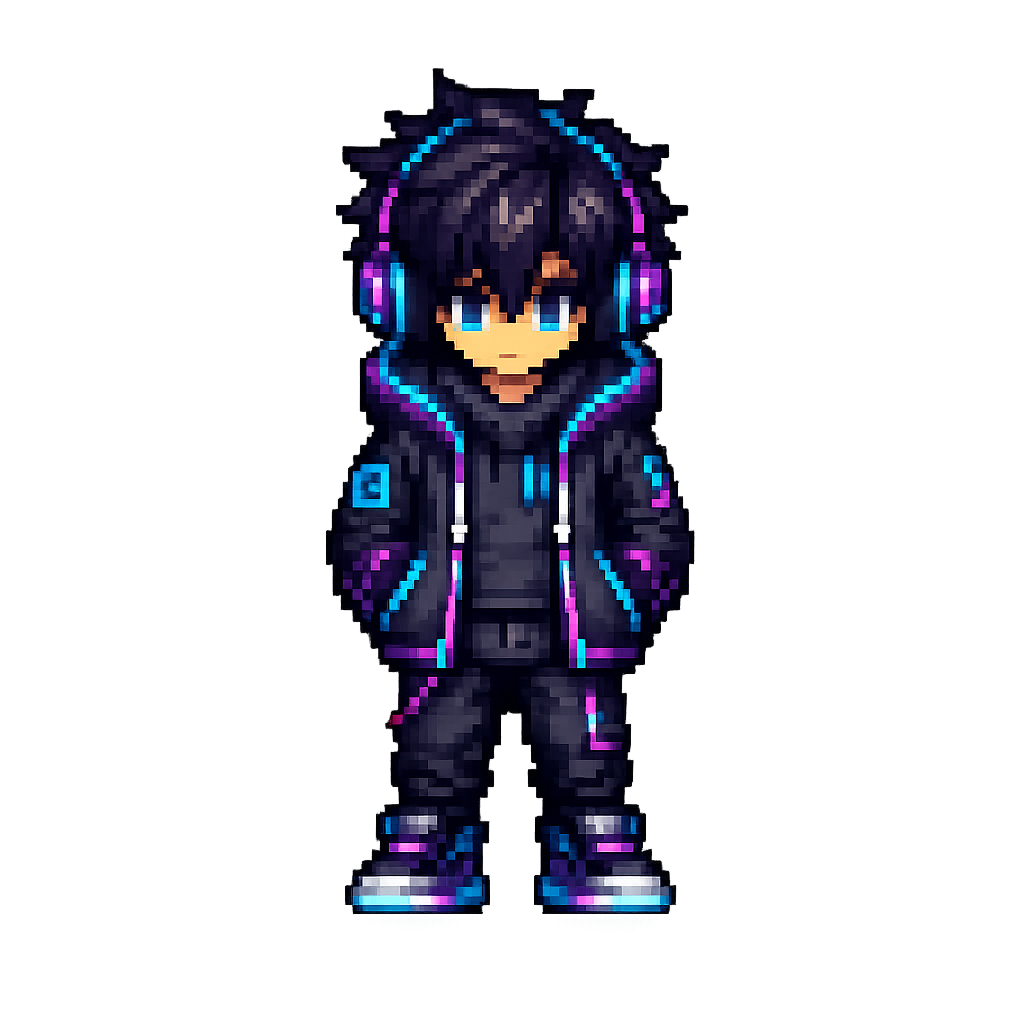
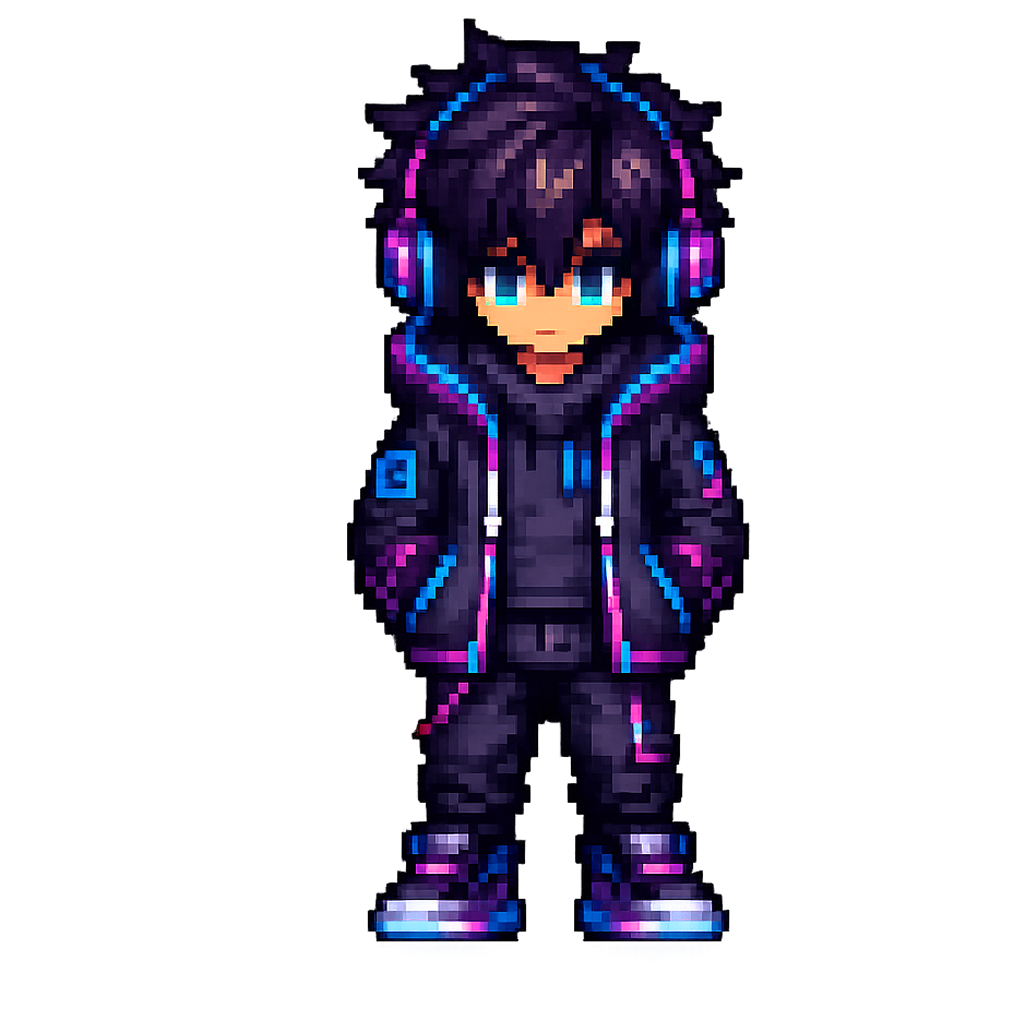
Agregue animacion de caminar/Ademas de agregar imagenes

Changed region(s): [[0.3125, 0.0, 0.75, 0.9375]]

diff --git a/personaje.py b/personaje.py
@@ -14,18 +14,37 @@ class Personaje:
             
         #Ponemos la imagen del personaje
         
+        self.caminar_derecha = [
+        pygame.image.load("assets/caminar_1.png"),
+        pygame.image.load("assets/caminar_2.png"),
+        pygame.image.load("assets/caminar_3.png")
+        ]
+
+        for i in range(len(self.caminar_derecha)):              #Reduzco lineas de codigo con un for
+            self.caminar_derecha[i] = pygame.transform.scale( 
+            self.caminar_derecha[i],
+            (self.ancho, self.alto)
+            )
+
+        self.caminar_izquierda = []
+        
+        for imagen in self.caminar_derecha:
+            self.caminar_izquierda.append(
+            pygame.transform.flip(imagen, True, False)
+            )
+        
         self.imagen_frente = pygame.image.load("assets/personaje_de_frente.png")
         self.imagen_frente = pygame.transform.scale(self.imagen_frente,(self.ancho, self.alto)) #Ajustamos medida Cualquiera cosa cambiar ancho y alto
-
-        self.imagen_derecha = pygame.image.load("assets/personaje_de_costado.png")
-        self.imagen_derecha = pygame.transform.scale(self.imagen_derecha,(self.ancho, self.alto))
-        
-        self.imagen_izquierda = pygame.transform.flip(self.imagen_derecha,True,False)
 
         
         self.estado_imagen = "frente"
 
         self.tiempo_quieto = 0
+
+        self.frame_actual = 0               #Para caminar animacion
+        
+        self.contador_animacion = 0   # contador_animacion funciona como un temporizador.
+        # Evita que la animación cambie de imagen demasiado rápido.
 
         #Mecanicas velocidades etc
 
@@ -41,7 +60,7 @@ class Personaje:
         
         self.fuerza_salto_int = -25
         
-        self.fuerza_salto_max = -35 #Altura maxima alcanzada con velocidad
+        self.fuerza_salto_max = -30 #Altura maxima alcanzada con velocidad
 
         self.en_suelo = True #Condicion para no poder volvar
     
@@ -92,19 +111,40 @@ class Personaje:
             
             self.estado_imagen = "izquierda"        #Para la imagen
             self.tiempo_quieto = 8
+            
+            self.contador_animacion += 1
+
+            if self.contador_animacion >= 10:           #Para la animacion de caminar
+                self.contador_animacion = 0
+                self.frame_actual += 1
+
+            if self.frame_actual >= 3:
+                self.frame_actual = 0
         
         elif teclas[pygame.K_d]:
             if self.velocidad_x < self.velocidad_maxima:
                 self.velocidad_x += self.velocidad_movimiento
             
-            self.estado_imagen = "derecha"
+            self.estado_imagen = "derecha"                      #Delay para la imagen de cuando queda de frente
             self.tiempo_quieto = 8
-        
+
+            self.contador_animacion += 1
+            
+            if self.contador_animacion >= 10:                   #Para la animacion de caminar
+                self.contador_animacion = 0
+                self.frame_actual += 1
+
+            if self.frame_actual >= 3:
+                self.frame_actual = 0
+
+
         else:
                 if self.tiempo_quieto > 0:
                     self.tiempo_quieto -= 1
                 else:
                     self.estado_imagen = "frente"
+                    self.frame_actual = 0
+                    self.contador_animacion = 0
         
         if teclas[pygame.K_SPACE] and self.en_suelo == True:
             self.saltar()
@@ -114,13 +154,18 @@ class Personaje:
         if self.estado_imagen == "frente":
             pantalla.blit(self.imagen_frente,      
             (self.x, self.y, self.ancho, self.alto))           #Dibujamos con condicion 
+       
         elif self.estado_imagen == "derecha":
-            pantalla.blit(self.imagen_derecha,      
-            (self.x, self.y, self.ancho, self.alto))
-        else:
-            pantalla.blit(self.imagen_izquierda,      
-            (self.x, self.y, self.ancho, self.alto))
+            pantalla.blit(
+            self.caminar_derecha[self.frame_actual],
+            (self.x, self.y)
+            )
 
+        else:
+            pantalla.blit(
+            self.caminar_izquierda[self.frame_actual],
+            (self.x, self.y)
+            )
     
 
 
